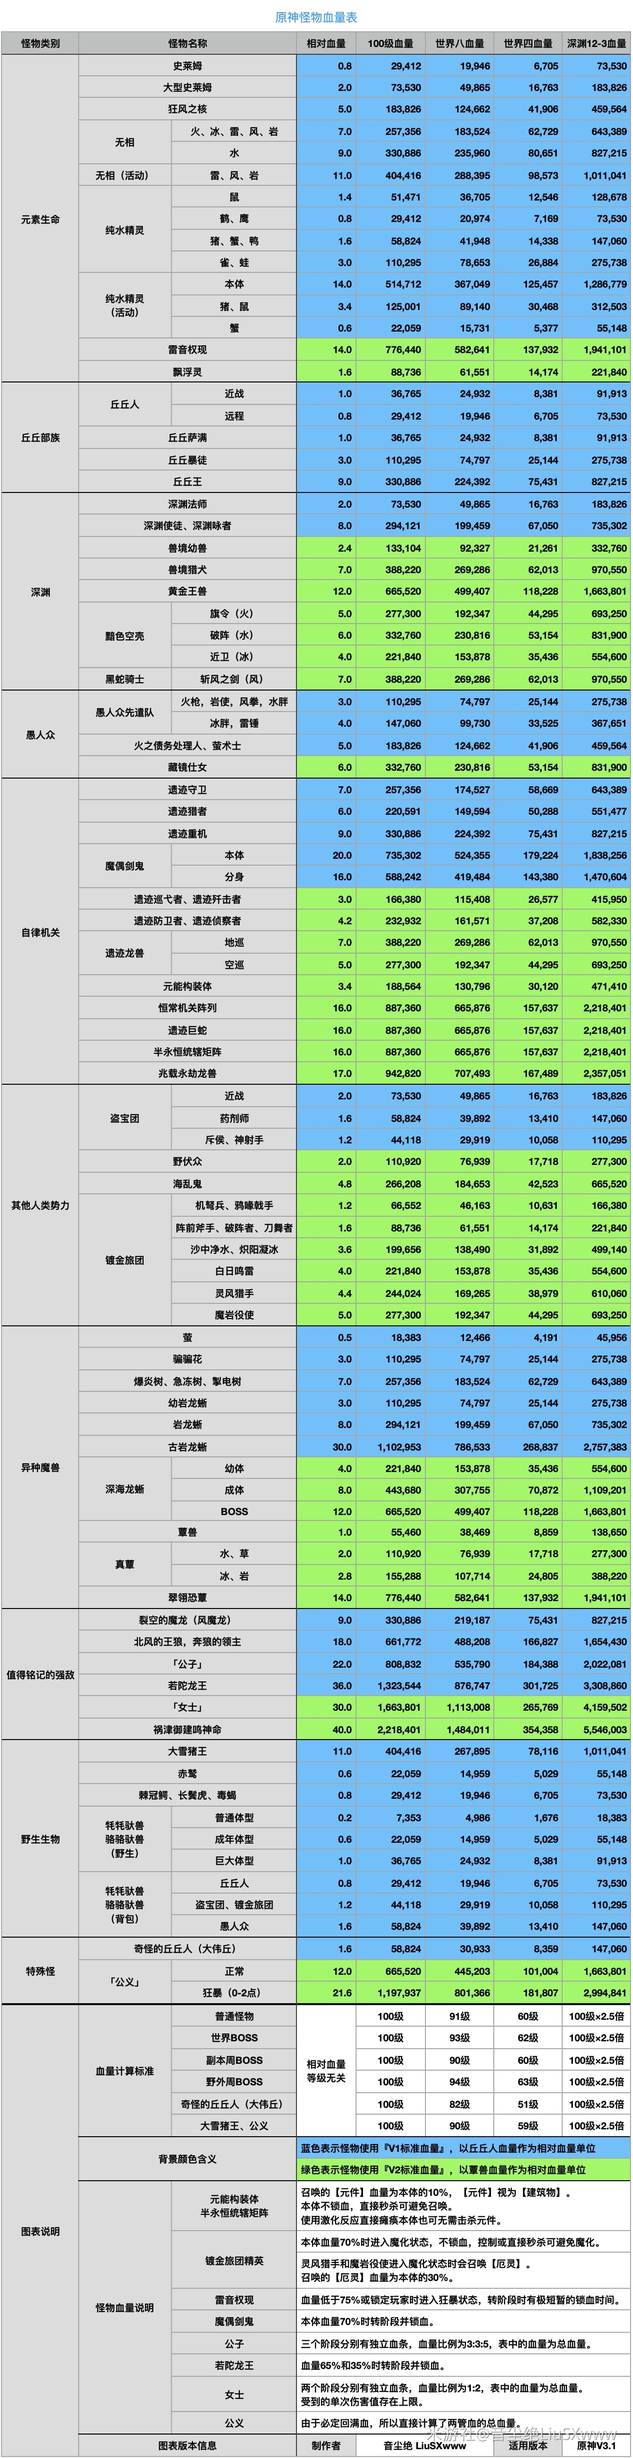
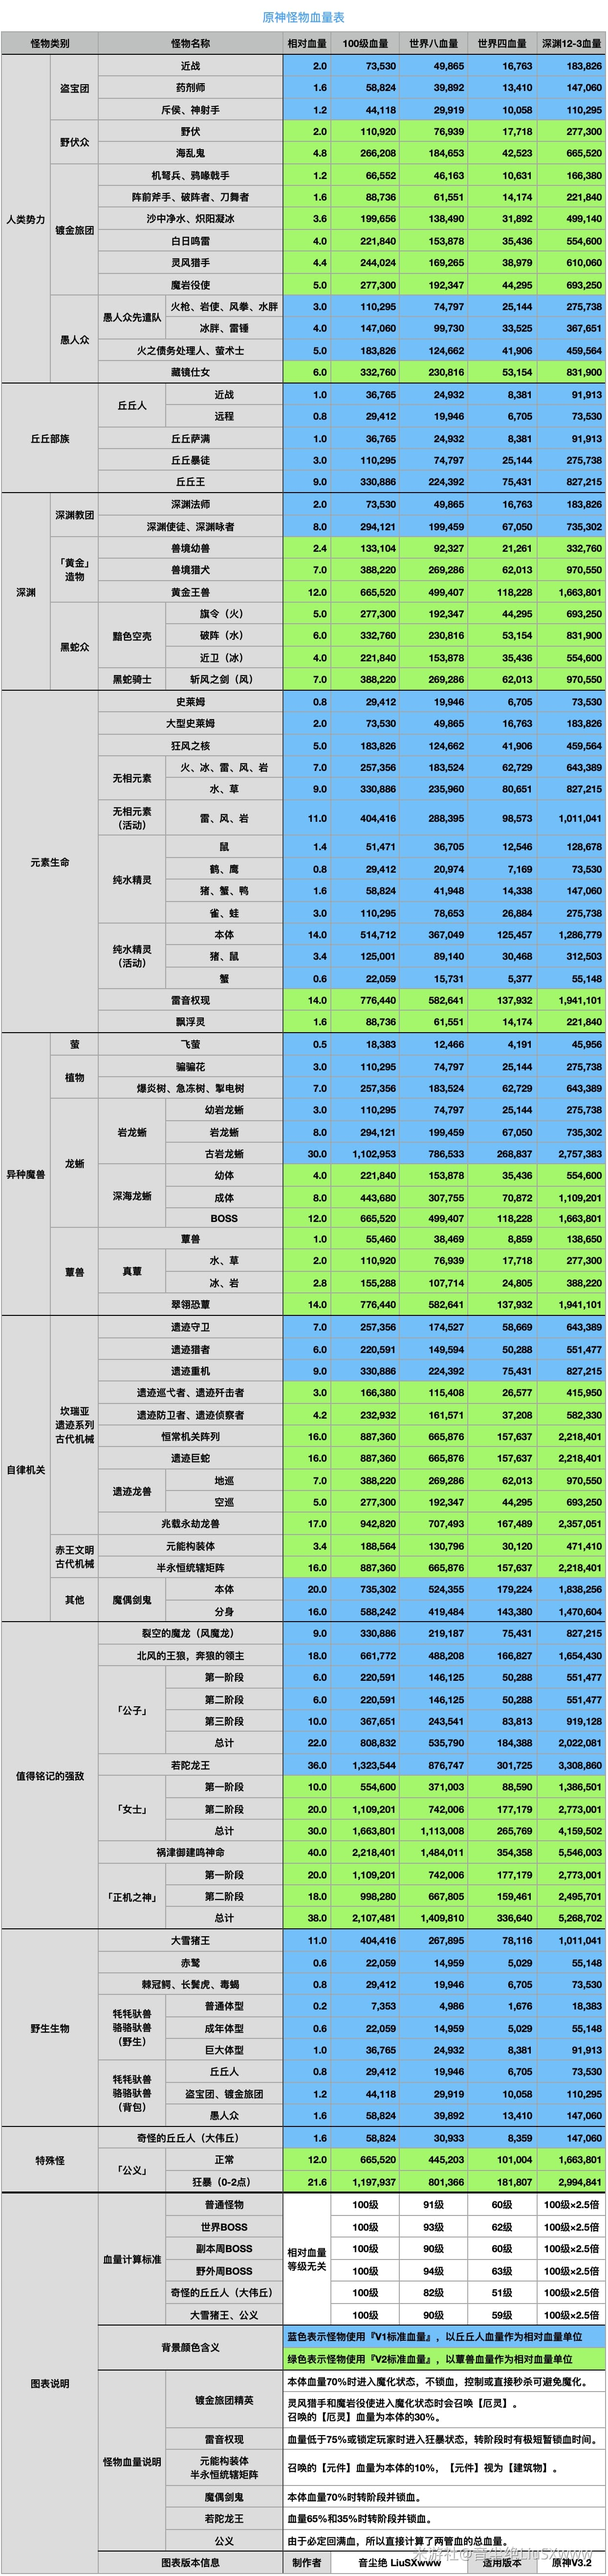
🍱 增加一部分提示, 更新`血量表`等资源(#364)

diff --git a/GenshinUID/genshinuid_config/set_config.py b/GenshinUID/genshinuid_config/set_config.py
@@ -38,6 +38,7 @@ PUSH_MAP = {
 HINT_MAP = {
     '米游币推送': '\n该选项不会影响到实际米游币获取\n*【管理员命令全局生效】',
     '简洁签到报告': '\n该选项将减少每日群内签到报告的字数\n*【管理员命令全局生效】',
+    '网页控制台': '\n初始账admin,密admin,请务必及时修改账密!',
 }
 SWITCH_STR = ''
 PUSH_STR = ''
